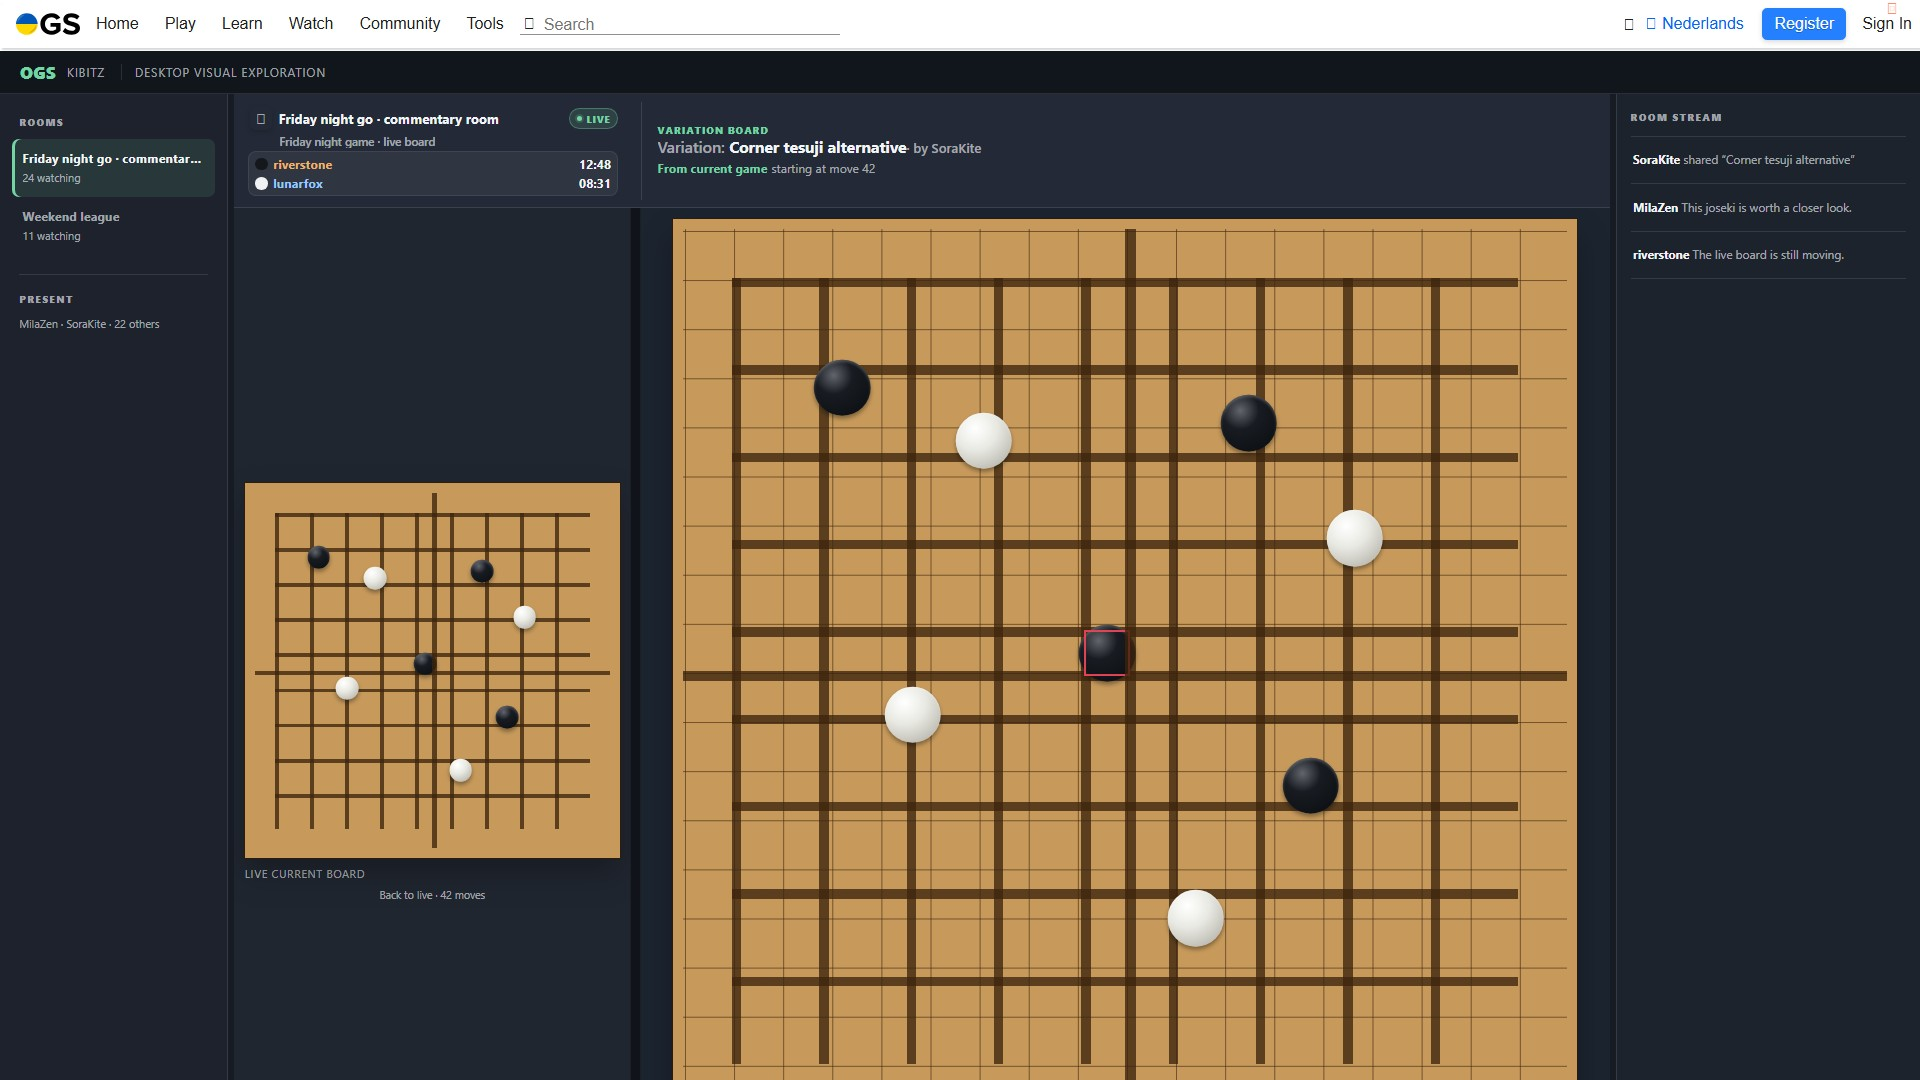
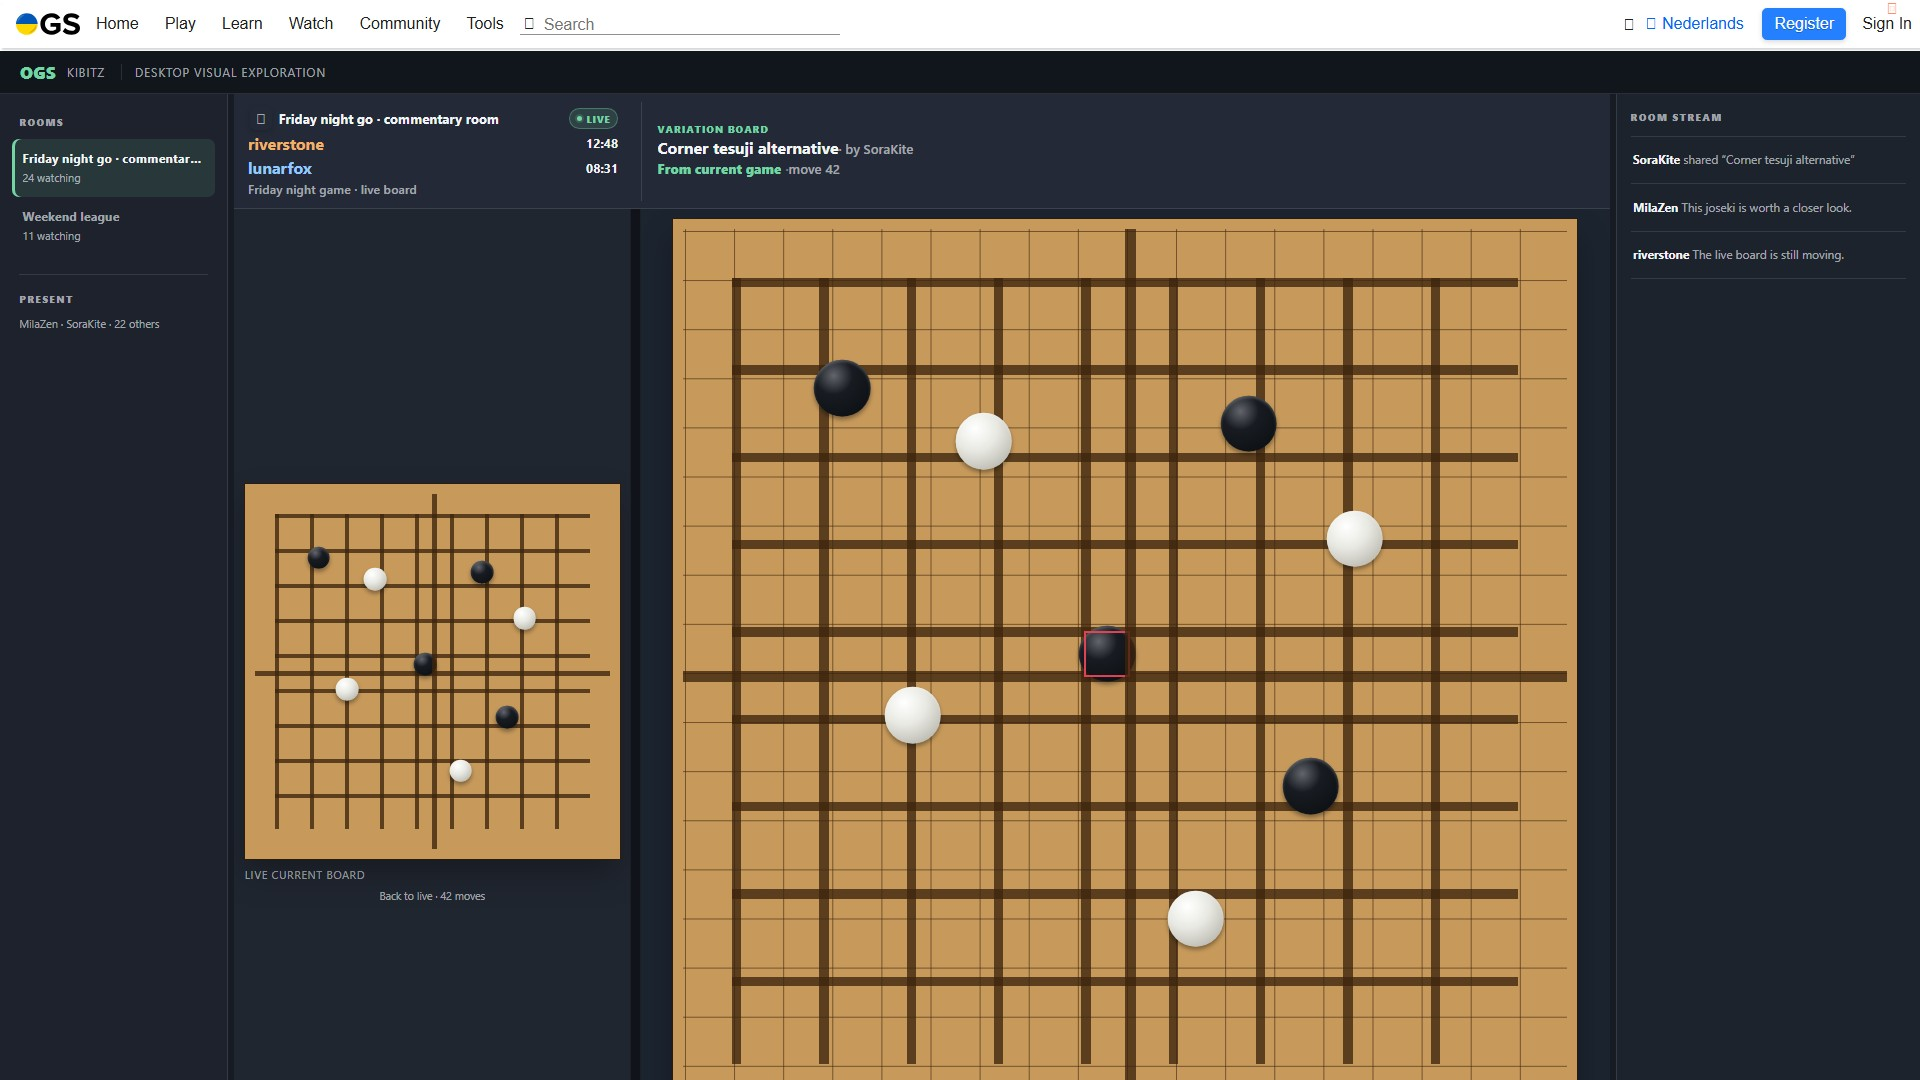
Flatten Kibitz split header prototype

diff --git a/src/views/Kibitz/KibitzDesktopCompareHeader.css b/src/views/Kibitz/KibitzDesktopCompareHeader.css
@@ -110,9 +110,9 @@
 
 .KibitzDesktopCompareHeader-mainGameLinkRow {
     color: var(--compare-header-muted);
-    font-size: 0.72rem;
+    font-size: 0.78rem;
     line-height: 1.2;
-    margin: 0.12rem 0 0.16rem 1.95rem;
+    margin: 0.22rem 0 0;
     min-width: 0;
     overflow: hidden;
     text-overflow: ellipsis;
@@ -129,32 +129,37 @@
 }
 
 .KibitzDesktopCompareHeader-main .KibitzDesktopMainGameScoreboard-inner {
-    background: var(--compare-header-soft);
-    border-radius: 8px;
-    box-shadow: inset 0 0 0 1px color-mix(in srgb, var(--border-color) 46%, transparent);
-    padding: 0.24rem 0.38rem;
+    background: transparent;
+    border-radius: 0;
+    box-shadow: none;
+    column-gap: 0;
+    padding: 0;
+    grid-template-columns: minmax(0, 1fr);
 }
 
-.KibitzDesktopCompareHeader-main .KibitzDesktopMainGameScoreboard-avatarButton,
-.KibitzDesktopCompareHeader-main .KibitzDesktopMainGameScoreboard-avatar,
-.KibitzDesktopCompareHeader-main .KibitzDesktopMainGameScoreboard-avatarImage {
-    height: 2rem;
-    width: 2rem;
+.KibitzDesktopCompareHeader-main .KibitzDesktopMainGameScoreboard-avatarCell,
+.KibitzDesktopCompareHeader-main .KibitzDesktopMainGameScoreboard-playerFlag,
+.KibitzDesktopCompareHeader-main .KibitzDesktopMainGameScoreboard-playerRank,
+.KibitzDesktopCompareHeader-main .KibitzDesktopMainGameScoreboard-captures {
+    display: none;
+}
+
+.KibitzDesktopCompareHeader-main .KibitzDesktopMainGameScoreboard-row {
+    border-radius: 0;
+    grid-column: 1;
+    grid-template-columns: minmax(0, 1fr) auto;
+    padding: 0.13rem 0;
 }
 
 .KibitzDesktopCompareHeader-main .KibitzDesktopMainGameScoreboard-playerName {
-    font-size: 0.84rem;
-}
-
-.KibitzDesktopCompareHeader-main .KibitzDesktopMainGameScoreboard-playerRank {
-    font-size: 0.72rem;
-}
-
-.KibitzDesktopCompareHeader-main .KibitzDesktopMainGameScoreboard-clock {
     font-size: 0.82rem;
 }
 
-.KibitzDesktopCompareHeader-main .KibitzDesktopMainGameScoreboard-captures {
+.KibitzDesktopCompareHeader-main .KibitzDesktopMainGameScoreboard-clock {
+    font-size: 0.84rem;
+}
+
+.KibitzDesktopCompareHeader-main .KibitzDesktopMainGameScoreboard-row::after {
     display: none;
 }
 
@@ -168,18 +173,13 @@
 
 .KibitzDesktopCompareHeader-variationTitle {
     color: var(--fg);
-    font-size: 0.98rem;
+    font-size: 1rem;
     font-weight: 700;
     line-height: 1.2;
     min-width: 0;
     overflow: hidden;
     text-overflow: ellipsis;
     white-space: nowrap;
-}
-
-.KibitzDesktopCompareHeader-variationPrefix {
-    color: var(--compare-header-muted);
-    font-weight: 600;
 }
 
 .KibitzDesktopCompareHeader-variationName {
@@ -195,22 +195,24 @@
 
 .KibitzDesktopCompareHeader-sourceLine {
     align-items: baseline;
-    color: var(--compare-header-muted);
+    color: var(--fg);
     display: flex;
     flex-wrap: wrap;
-    font-size: 0.76rem;
+    font-size: 0.82rem;
     gap: 0.26rem;
+    font-weight: 600;
     line-height: 1.25;
     min-width: 0;
 }
 
 .KibitzDesktopCompareHeader-sourceLabel {
     color: var(--primary);
-    font-weight: 750;
+    font-weight: 800;
 }
 
 .KibitzDesktopCompareHeader-sourceDetail {
     color: var(--compare-header-muted);
+    font-weight: 500;
 }
 
 .KibitzDesktopCompareHeader-sourceDivider {
@@ -250,7 +252,7 @@
 
 .KibitzDesktopCompareHeader-sourceTitle {
     color: var(--fg);
-    font-weight: 600;
+    font-weight: 700;
     max-width: 100%;
     overflow: hidden;
     text-overflow: ellipsis;
@@ -273,7 +275,7 @@
     }
 
     .KibitzDesktopCompareHeader-mainGameLinkRow {
-        margin-left: 1.8rem;
+        margin-top: 0.18rem;
     }
 
     .KibitzDesktopCompareHeader-main .KibitzDesktopMainGameScoreboard-playerName {
@@ -281,7 +283,11 @@
     }
 
     .KibitzDesktopCompareHeader-variationTitle {
-        font-size: 0.9rem;
+        font-size: 0.92rem;
+    }
+
+    .KibitzDesktopCompareHeader-sourceLine {
+        font-size: 0.76rem;
     }
 }
 

diff --git a/src/views/Kibitz/KibitzDesktopCompareHeader.tsx b/src/views/Kibitz/KibitzDesktopCompareHeader.tsx
@@ -111,11 +111,14 @@ function renderVariationSource(
             {isCurrentGame ? (
                 typeof variation.analysis_from === "number" ? (
                     <span className="KibitzDesktopCompareHeader-sourceDetail">
+                        <span
+                            className="KibitzDesktopCompareHeader-sourceDivider"
+                            aria-hidden="true"
+                        >
+                            ·
+                        </span>
                         {interpolate(
-                            pgettext(
-                                "Kibitz variation source move label",
-                                "starting at move {{move}}",
-                            ),
+                            pgettext("Kibitz variation source move label", "move {{move}}"),
                             { move: variation.analysis_from },
                         )}
                     </span>
@@ -175,20 +178,12 @@ function renderDesignScoreboard(
             )}
         >
             <div className="KibitzDesktopCompareHeader-designPlayerRow">
-                <span
-                    className="KibitzDesktopCompareHeader-designStone KibitzDesktopCompareHeader-designStone--black"
-                    aria-hidden="true"
-                />
                 <span className="KibitzDesktopCompareHeader-designPlayerName KibitzDesktopCompareHeader-designPlayerName--black">
                     {game.black.username}
                 </span>
                 <span className="KibitzDesktopCompareHeader-designClock">{clockLabels.black}</span>
             </div>
             <div className="KibitzDesktopCompareHeader-designPlayerRow">
-                <span
-                    className="KibitzDesktopCompareHeader-designStone KibitzDesktopCompareHeader-designStone--white"
-                    aria-hidden="true"
-                />
                 <span className="KibitzDesktopCompareHeader-designPlayerName KibitzDesktopCompareHeader-designPlayerName--white">
                     {game.white.username}
                 </span>
@@ -250,6 +245,14 @@ export function KibitzDesktopCompareHeader({
                         </span>
                     </div>
                 </div>
+                {designClockLabels ? (
+                    renderDesignScoreboard(mainGame, designClockLabels)
+                ) : (
+                    <KibitzDesktopMainGameScoreboard
+                        controller={mainBoardController}
+                        game={mainGame}
+                    />
+                )}
                 <div className="KibitzDesktopCompareHeader-mainGameLinkRow">
                     {mainGame ? (
                         <a
@@ -273,14 +276,6 @@ export function KibitzDesktopCompareHeader({
                         </span>
                     )}
                 </div>
-                {designClockLabels ? (
-                    renderDesignScoreboard(mainGame, designClockLabels)
-                ) : (
-                    <KibitzDesktopMainGameScoreboard
-                        controller={mainBoardController}
-                        game={mainGame}
-                    />
-                )}
             </section>
             <section
                 className="KibitzDesktopCompareHeader-variation"
@@ -296,9 +291,6 @@ export function KibitzDesktopCompareHeader({
                     className="KibitzDesktopCompareHeader-variationTitle"
                     title={getVariationTitle(selectedVariation)}
                 >
-                    <span className="KibitzDesktopCompareHeader-variationPrefix">
-                        {pgettext("Kibitz variation header title prefix", "Variation")}:
-                    </span>{" "}
                     <span className="KibitzDesktopCompareHeader-variationName">
                         {getVariationTitle(selectedVariation)}
                     </span>

diff --git a/src/views/Kibitz/KibitzHeaderDesignFixture.css b/src/views/Kibitz/KibitzHeaderDesignFixture.css
@@ -159,6 +159,7 @@
     --fg: var(--fixture-fg);
     --primary: var(--fixture-primary);
     --supporter: #f0b269;
+    --text-color: var(--fixture-fg);
     --user: #94c9ff;
 }
 
@@ -476,40 +477,24 @@
 }
 
 .KibitzHeaderDesignFixture .KibitzDesktopCompareHeader-designScoreboard {
-    background: var(--compare-header-soft);
-    border: 1px solid rgba(255, 255, 255, 0.08);
-    border-radius: 8px;
+    background: transparent;
+    border: 0;
+    border-radius: 0;
     display: grid;
     gap: 0.22rem;
     min-width: 0;
-    padding: 0.24rem 0.38rem;
+    padding: 0;
 }
 
 .KibitzHeaderDesignFixture .KibitzDesktopCompareHeader-designPlayerRow {
     align-items: center;
     display: grid;
     gap: 0.35rem;
-    grid-template-columns: auto minmax(0, 1fr) auto;
+    grid-template-columns: minmax(0, 1fr) auto;
     min-width: 0;
 }
 
-.KibitzHeaderDesignFixture .KibitzDesktopCompareHeader-designStone {
-    border-radius: 50%;
-    display: inline-block;
-    height: 0.78rem;
-    width: 0.78rem;
-}
-
-.KibitzHeaderDesignFixture .KibitzDesktopCompareHeader-designStone--black {
-    background: #14171b;
-}
-
-.KibitzHeaderDesignFixture .KibitzDesktopCompareHeader-designStone--white {
-    background: #f0f2f3;
-}
-
 .KibitzHeaderDesignFixture .KibitzDesktopCompareHeader-designPlayerName {
-    font-size: 0.78rem;
     font-weight: 700;
     overflow: hidden;
     text-overflow: ellipsis;
